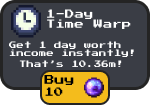
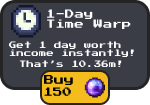
UpBar now shows coins per second gem was added to player and can be bought on the store it can also be used to buy time warps but global multipliers have not been implemented yet

Changed region(s): [[0.56, 0.7429, 0.72, 0.9429], [0.2933, 0.7143, 0.5067, 0.8], [0.2933, 0.8286, 0.48, 0.9143]]

diff --git a/app/src/main/java/com/example/idlegame/screen/StoreScreen.kt b/app/src/main/java/com/example/idlegame/screen/StoreScreen.kt
@@ -1,5 +1,6 @@
 package com.example.idlegame.screen
 
+import android.widget.Toast
 import androidx.compose.foundation.layout.Arrangement
 import androidx.compose.foundation.layout.Box
 import androidx.compose.foundation.layout.Column
@@ -18,8 +19,10 @@ import androidx.compose.ui.res.painterResource
 import androidx.compose.ui.tooling.preview.Preview
 import androidx.compose.ui.unit.dp
 import androidx.compose.ui.unit.sp
+import androidx.compose.ui.platform.LocalContext
 import com.example.idlegame.R
 import com.example.idlegame.biggembuy.BigGemBuy
+import com.example.idlegame.game.PlayerViewModel
 import com.example.idlegame.gembuy.GemBuy
 import com.example.idlegame.gembuy.pressStart2P
 import com.example.idlegame.incomemultiplier.IncomeMultiplier
@@ -27,7 +30,9 @@ import com.example.idlegame.timewarp.TimeWarp
 import com.example.idlegame.ui.theme.IdleGameTheme
 
 @Composable
-fun StoreScreen() {
+fun StoreScreen(playerViewModel: PlayerViewModel) {
+    val context = LocalContext.current
+
     Box(modifier = Modifier.fillMaxSize(), contentAlignment = Alignment.TopCenter) {
         Column {
             Spacer(modifier = Modifier.height(60.dp))
@@ -43,19 +48,28 @@ fun StoreScreen() {
 
             Row(modifier = Modifier.fillMaxWidth(), horizontalArrangement = Arrangement.Center) {
                 GemBuy(
-                    onBuy = {},
+                    onBuy = {
+                        playerViewModel.addGems(2)
+                        Toast.makeText(context, "Purchase successful!", Toast.LENGTH_SHORT).show()
+                    },
                     gemCount = "2 Gem",
-                    price = "Come at 6PM",
+                    price = "TRY 5",
                     modifier = Modifier.padding(8.dp, 6.dp)
                 )
                 GemBuy(
-                    onBuy = {},
+                    onBuy = {
+                        playerViewModel.addGems(10)
+                        Toast.makeText(context, "Purchase successful!", Toast.LENGTH_SHORT).show()
+                    },
                     gemCount = "10 Gem",
                     price = "TRY 10",
                     modifier = Modifier.padding(8.dp, 6.dp)
                 )
                 GemBuy(
-                    onBuy = {},
+                    onBuy = {
+                        playerViewModel.addGems(25)
+                        Toast.makeText(context, "Purchase successful!", Toast.LENGTH_SHORT).show()
+                    },
                     gemCount = "25 Gem",
                     price = "TRY 20",
                     modifier = Modifier.padding(8.dp, 6.dp)
@@ -64,14 +78,20 @@ fun StoreScreen() {
 
             Row (modifier = Modifier.fillMaxWidth(), horizontalArrangement = Arrangement.Center){
                 BigGemBuy(
-                    onBuy = {},
+                    onBuy = {
+                        playerViewModel.addGems(65)
+                        Toast.makeText(context, "Purchase successful!", Toast.LENGTH_SHORT).show()
+                    },
                     preciousPearl = painterResource(R.drawable.big_gem_buy_precious_pearl_4),
                     gemCount = "65 Gem",
                     price = "TRY 50",
                     modifier = Modifier.padding(8.dp, 8.dp)
                 )
                 BigGemBuy(
-                    onBuy = {},
+                    onBuy = {
+                        playerViewModel.addGems(150)
+                        Toast.makeText(context, "Purchase successful!", Toast.LENGTH_SHORT).show()
+                    },
                     preciousPearl = painterResource(R.drawable.big_gem_buy_precious_pearl_4),
                     gemCount = "150 Gem",
                     price = "TRY 100",
@@ -90,18 +110,36 @@ fun StoreScreen() {
 
             Row (modifier = Modifier.fillMaxWidth(), horizontalArrangement = Arrangement.Center) {
                 TimeWarp(
-                    onBuy = {},
-                    days = "1-Day Time Warp",
-                    description = "Get 1 day worth income instantly!",
-                    amount = "That’s 10.36m!",
-                    price = "10",
+                    onBuy = {
+                        if (playerViewModel.player.gems.value >= 50) {
+                            playerViewModel.player.gems.value -= 50
+                            val income = 1 * 60 * 60 * playerViewModel.earningsPerSecond.value.toInt()
+                            playerViewModel.player.money.value += income
+                            Toast.makeText(context, "Purchase successful!", Toast.LENGTH_SHORT).show()
+                        } else {
+                            Toast.makeText(context, "Not enough gems!", Toast.LENGTH_SHORT).show()
+                        }
+                    },
+                    hours = "1-Hour Time Warp",
+                    description = "Get 1 hour worth income instantly!",
+                    amount = "That’s ${1 * 60 * 60 * playerViewModel.earningsPerSecond.value.toInt()}!",
+                    price = "50",
                     modifier = Modifier.padding(6.dp, 6.dp))
                 TimeWarp(
-                    onBuy = {},
-                    days = "7-Day Time Warp",
-                    description = "Get 7 days worth income instantly!",
-                    amount = "That’s 72.58m!",
-                    price = "50",
+                    onBuy = {
+                        if (playerViewModel.player.gems.value >= 150) {
+                            playerViewModel.player.gems.value -= 150
+                            val income = 6 * 60 * 60 * playerViewModel.earningsPerSecond.value.toInt()
+                            playerViewModel.player.money.value += income
+                            Toast.makeText(context, "Purchase successful!", Toast.LENGTH_SHORT).show()
+                        } else {
+                            Toast.makeText(context, "Not enough gems!", Toast.LENGTH_SHORT).show()
+                        }
+                    },
+                    hours = "6-Hour Time Warp",
+                    description = "Get 6 hour worth income instantly!",
+                    amount = "That’s ${6 * 60 * 60 * playerViewModel.earningsPerSecond.value.toInt()}!",
+                    price = "150",
                     modifier = Modifier.padding(6.dp, 6.dp))
             }
 
@@ -140,6 +178,6 @@ fun StoreScreen() {
 @Composable
 fun StoreScreenPreview() {
     IdleGameTheme {
-        StoreScreen()
+        StoreScreen(playerViewModel = PlayerViewModel())
     }
 }

diff --git a/app/src/main/java/com/example/idlegame/MainActivity.kt b/app/src/main/java/com/example/idlegame/MainActivity.kt
@@ -76,6 +76,7 @@ class MainActivity : ComponentActivity() {
         sharedPreferences = getSharedPreferences("settings", Context.MODE_PRIVATE)
         val randomIndex = Random.nextInt(6)
         playerViewModel.player.money.value = loadPlayerMoney("playerMoney")
+        playerViewModel.player.gems.value = loadPlayerGems("playerGems")
 
         setContent {
             IdleGameTheme {
@@ -104,6 +105,7 @@ class MainActivity : ComponentActivity() {
         saveCheckState("sound", sound.value)
         saveCheckState("music", music.value)
         savePlayerMoney("playerMoney", playerViewModel.player.money.value)
+        savePlayerGems("playerGems", playerViewModel.player.gems.value)
     }
 
     private fun loadCheckState(key: String): Check {
@@ -116,6 +118,17 @@ class MainActivity : ComponentActivity() {
     private fun savePlayerMoney(key: String, money: Double) {
         with(sharedPreferences.edit()) {
             putInt(key, money.roundToInt())
+            apply()
+        }
+    }
+
+    private fun loadPlayerGems(key: String): Int {
+        return sharedPreferences.getInt(key, 0)
+    }
+
+    private fun savePlayerGems(key: String, gems: Int) {
+        with(sharedPreferences.edit()) {
+            putInt(key, gems)
             apply()
         }
     }
@@ -136,17 +149,17 @@ fun Main(enemyViewModel: EnemyViewModel,playerViewModel: PlayerViewModel, sound:
     val design = remember { mutableStateOf(Design.WeaponsTab) }
     LaunchedEffect(key1 = "earnMoney") {
         while (true) {
-            playerViewModel.earnMoney()
+            playerViewModel.earningsPerSecond.value = playerViewModel.earnMoney()
             delay(1000) // delay for 1 second
         }
     }
 
     Box(modifier = Modifier.fillMaxSize()) {
         UpBar(
-            output = "1/s",
+            output = playerViewModel.earningsPerSecond.value.toInt().toString()+"/s",
             onGear = { showSettingsDialog.value = true },
             money = playerViewModel.player.money.value.toInt().toString(),
-            gems = "0",
+            gems = playerViewModel.player.gems.value.toString(),
             modifier = Modifier.fillMaxWidth()
         )
 
@@ -158,7 +171,7 @@ fun Main(enemyViewModel: EnemyViewModel,playerViewModel: PlayerViewModel, sound:
 
         NavHost(navController, startDestination = Screen.WeaponsTab.route) {
             composable(Screen.WeaponsTab.route) { WeaponsScreen(enemyViewModel.slimeEnemy,playerViewModel) }
-            composable(Screen.StoreTab.route) { StoreScreen() }
+            composable(Screen.StoreTab.route) { StoreScreen(playerViewModel) }
             composable(Screen.UpgradesTab.route) { UpgradeScreen() }
         }
 

diff --git a/app/src/main/java/com/example/idlegame/game/Player.kt b/app/src/main/java/com/example/idlegame/game/Player.kt
@@ -10,13 +10,51 @@ import kotlinx.coroutines.launch
 import androidx.compose.runtime.State
 import androidx.compose.runtime.mutableDoubleStateOf
 
+class Player(money: Double = 10.0, gems: Int = 0, weapons: MutableList<WeaponGame> = mutableListOf()) {
+    var money: MutableState<Double> = mutableDoubleStateOf(money)
+    var gems: MutableState<Int> = mutableStateOf(gems)
+    var weapons: MutableState<MutableList<WeaponGame>> = mutableStateOf(weapons)
+    fun earnMoney(): Double {
+        var moneyEarned = 0.0
+        weapons.value.forEach {
+            moneyEarned += it.damage()
+            money.value += it.damage()
+        }
+        return moneyEarned
+    }
+
+    fun addGems(amount: Int) {
+        gems.value += amount
+    }
+
+    fun buyWeapon(weapon: WeaponGame) {
+        if (money.value >= weapon.upgradeCost()) {
+            money.value -= weapon.upgradeCost()
+            if (!weapons.value.contains(weapon)) {
+                weapons.value.add(weapon)
+            }
+            weapon.upgrade()
+        }
+    }
+}
+
 class PlayerViewModel : ViewModel() {
-    val player: Player = Player(money = 10.0)
+    val player: Player = Player(money = 10.0, gems = 0)
+    val earningsPerSecond: MutableState<Double> = mutableStateOf(0.0)
     val weapons: State<MutableList<WeaponGame>> get() = player.weapons
-    fun earnMoney() {
+    fun earnMoney(): Double {
+        var moneyEarned = 0.0
         viewModelScope.launch {
-            player.earnMoney()
-        }}
+            moneyEarned = player.earnMoney()
+        }
+        return moneyEarned
+    }
+
+    fun addGems(amount: Int) {
+        viewModelScope.launch {
+            player.addGems(amount)
+        }
+    }
 
     fun buyWeapon(weapon: WeaponGame) {
         viewModelScope.launch {
@@ -28,26 +66,3 @@ class PlayerViewModel : ViewModel() {
         player.weapons.value = weapons.toMutableList()
     }
 }
-class Player(money: Double, weapons: MutableList<WeaponGame> = mutableListOf()) {
-    var money: MutableState<Double> = mutableDoubleStateOf(money)
-    var weapons: MutableState<MutableList<WeaponGame>> = mutableStateOf(weapons)
-    fun earnMoney() {
-        weapons.value.forEach { money.value += it.damage() }
-    }
-
-    fun buyWeapon(weapon: WeaponGame) {
-        if (money.value >= weapon.upgradeCost()) {
-            money.value -= weapon.upgradeCost()
-            if (weapons.value.contains(weapon)) {
-                weapon.upgrade()
-            } else {
-                weapons.value.add(weapon)
-                weapon.upgrade()
-            }
-
-        }
-    }
-
-}
-
-

diff --git a/app/src/main/java/com/example/idlegame/screen/WeaponsScreen.kt b/app/src/main/java/com/example/idlegame/screen/WeaponsScreen.kt
@@ -51,7 +51,6 @@ import java.util.Locale
 @Composable
 fun WeaponsScreen(enemy: Enemy, playerViewModel: PlayerViewModel) {
 
-
     val weapons = listOf(WeaponGame("Sword",R.drawable.sword_wooden,1.0, 10.0, 0.1, 0.1),
         WeaponGame("Dagger", R.drawable.dagger_wooden,1.0, 100.0, 0.1, 0.1),
         WeaponGame("Bow",R.drawable.bow_wooden,1.0, 200.0, 0.1, 0.1),
@@ -97,7 +96,6 @@ fun WeaponsScreen(enemy: Enemy, playerViewModel: PlayerViewModel) {
                         weaponPicture = painterResource(weapon.picture()),
                         modifier = Modifier.padding(5.dp, 8.dp),
                         onBuy = {playerViewModel.buyWeapon(weapon)}
-
                     )
                 }
             }
@@ -110,6 +108,6 @@ fun WeaponsScreen(enemy: Enemy, playerViewModel: PlayerViewModel) {
 @Composable
 fun WeaponsScreenPreview() {
     IdleGameTheme {
-        //WeaponsScreen(enemyViewModel.slimeEnemy )
+        //WeaponsScreen(enemy = Enemy(), playerViewModel = PlayerViewModel())
     }
 }

diff --git a/app/src/main/java/com/example/idlegame/game/WeaponGame.kt b/app/src/main/java/com/example/idlegame/game/WeaponGame.kt
@@ -41,12 +41,10 @@ class WeaponGame(
 
     fun upgrade() {
         level.value++
-
     }
 
     fun upgradeMultiplier() {
         multiplier.value *= 2
-
     }
 
     override fun equals(other: Any?): Boolean {
@@ -54,9 +52,7 @@ class WeaponGame(
         if (javaClass != other?.javaClass) return false
 
         other as WeaponGame
-
         if (title != other.title) return false
-
         return true
     }
 
